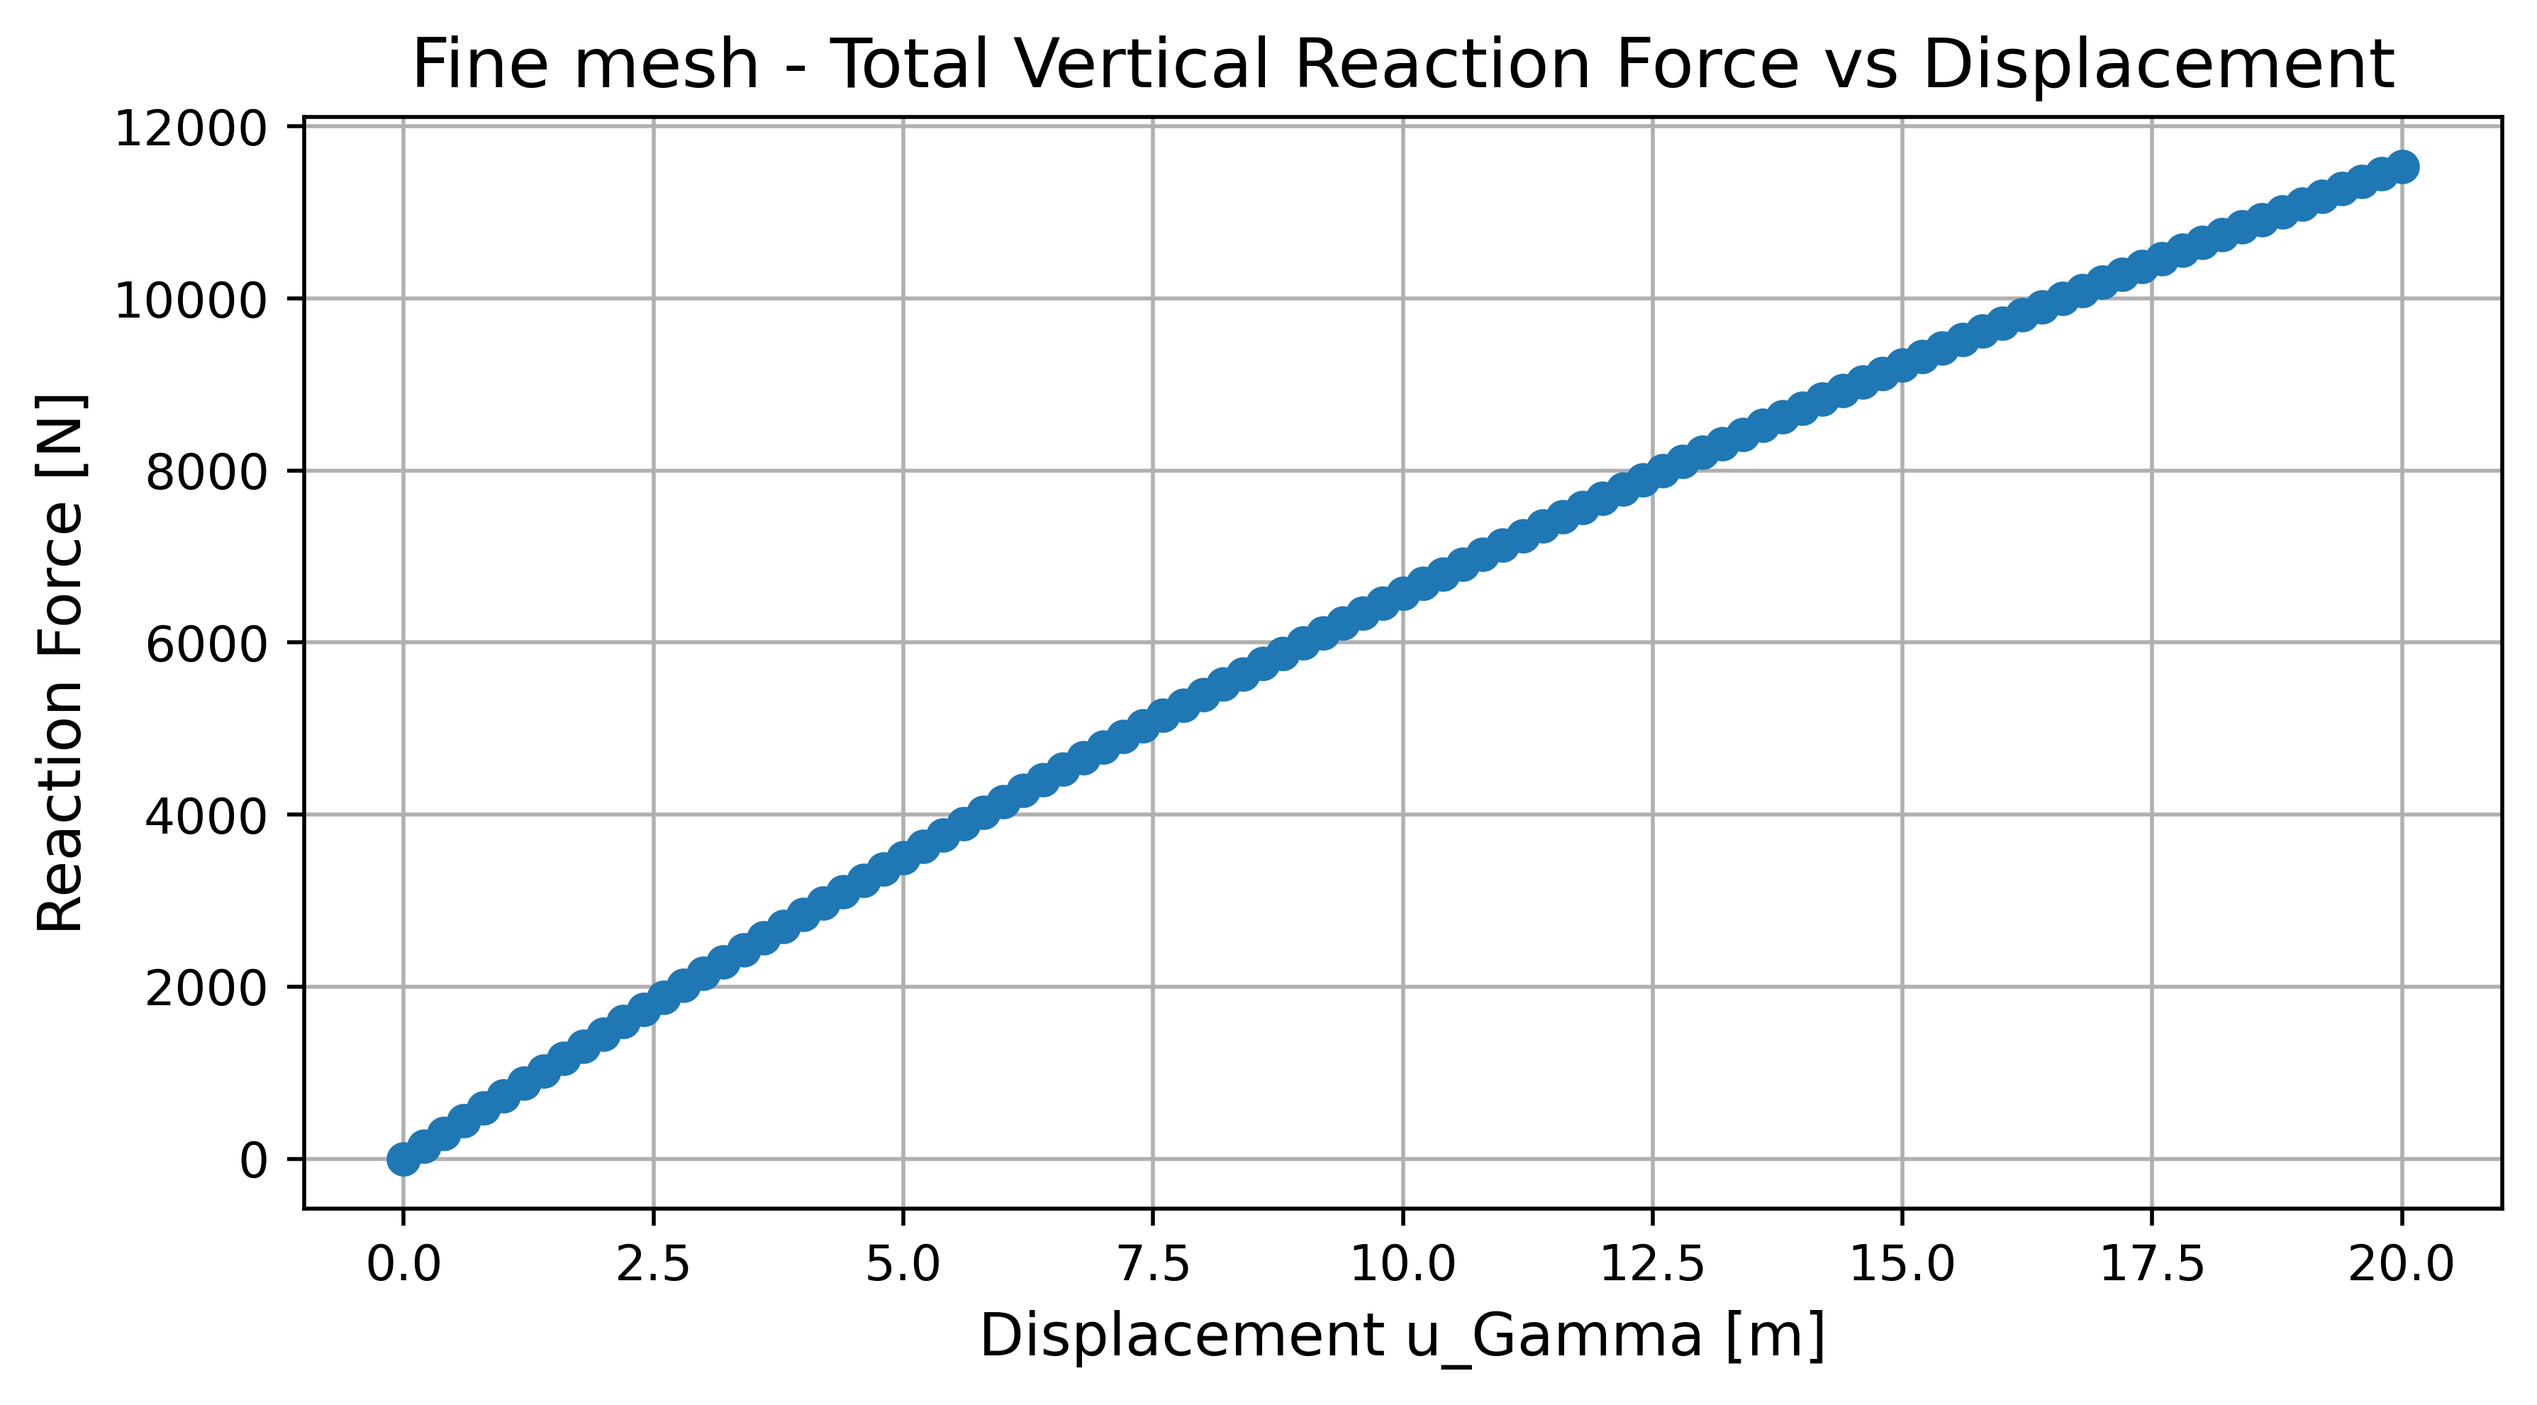
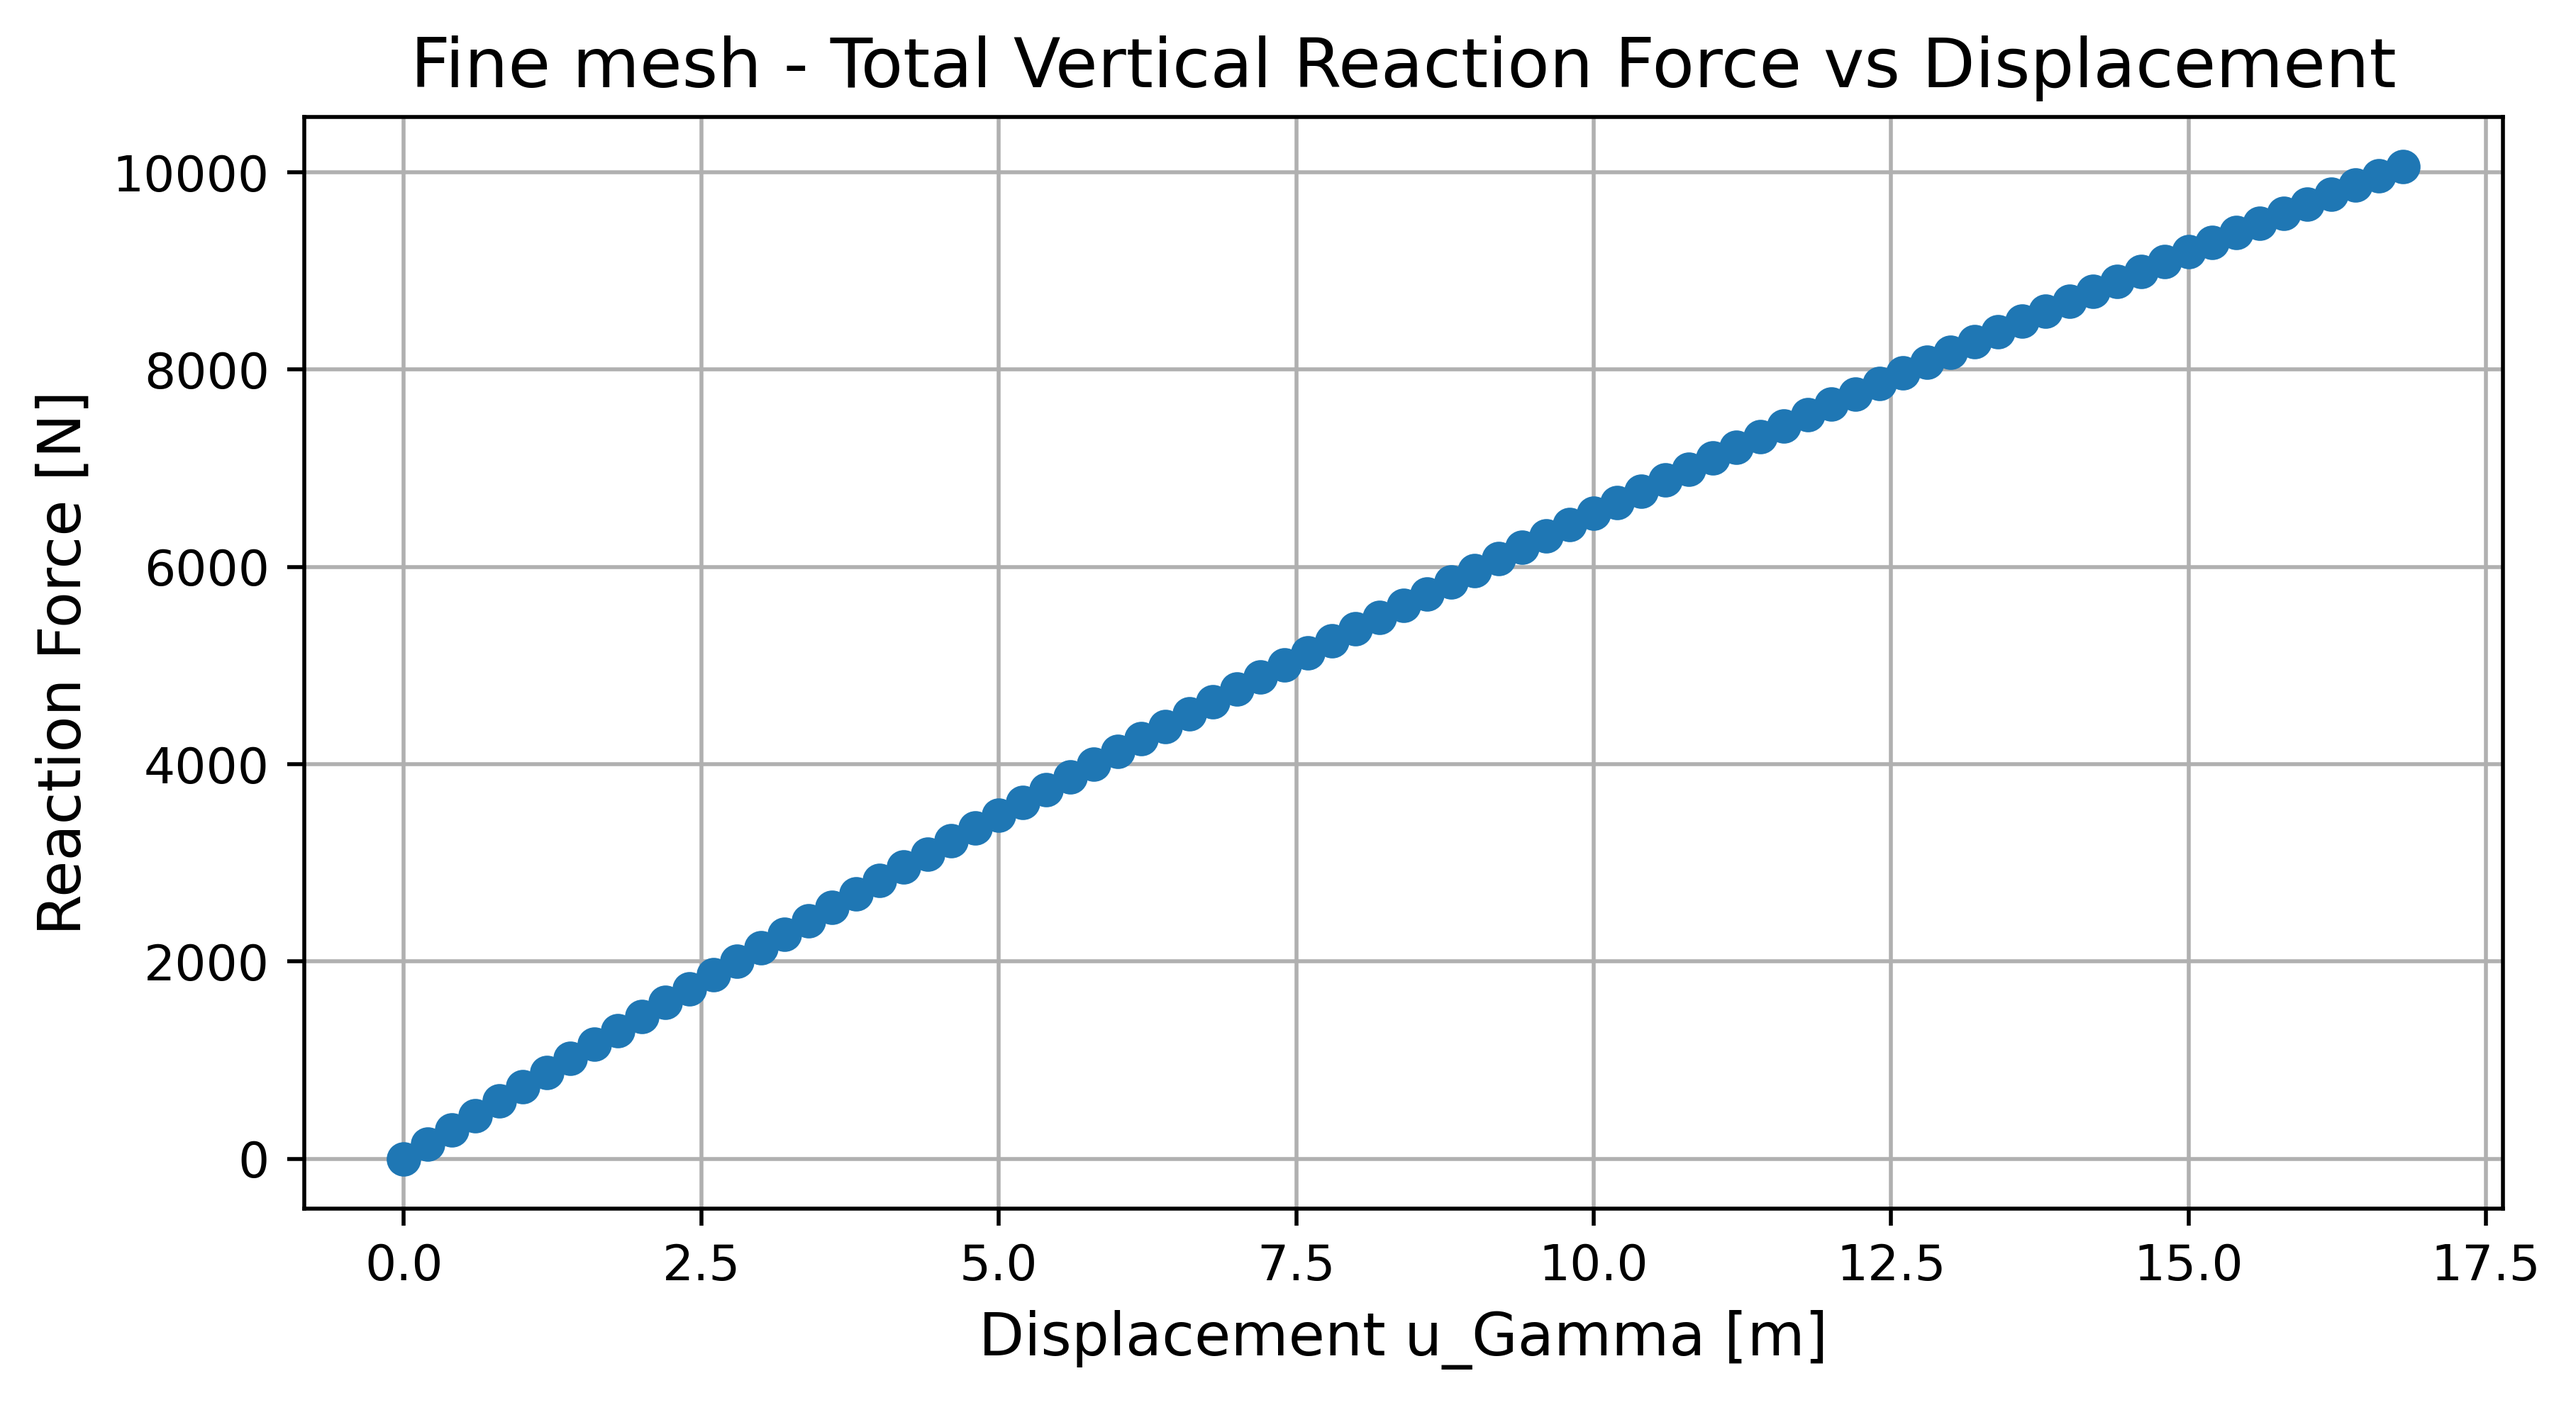
.

diff --git a/TME245/CA1a/testing_CA1a_TME245.py b/TME245/CA1a/testing_CA1a_TME245.py
@@ -1017,26 +1017,19 @@ def solve_task_2d(filename, n_steps=50, tol=1e-6, u_final=20, h=100, max_iter=25
             a[free_dofs] += da_free
             a[bc_dofs] = bc_vals
             
-            if it < 5 or it % 5 == 0:  # Print first 5 iterations and every 5th
-                print(f"\n  Iter {it}: res = {res_norm:.2e}")
+            if it < 10:
+                print(f'\nIter {it}: \nres = {res_norm:.2e}')
                 if it > 0:
-                    print(f"    max|da| = {np.max(np.abs(da_free)):.2e}")
-                    print(f"    max|a_free| = {np.max(np.abs(a[free_dofs])):.2e}")
+                    print(f'    max|da| = {np.max(np.abs(da_free)):.2e}')
+                    print(f'    max|a_free| = {np.max(np.abs(a[free_dofs])):.2e}')
                     # Check if K is singular
                     K_cond = np.linalg.cond(K_free.toarray()) if K_free.shape[0] < 1000 else -1
                     if K_cond > 0:
-                        print(f"    K condition number: {K_cond:.2e}")
-                  
-            if it == 0:
-                print(f"\n  Initial residual: {res_norm:.2e}")
+                        print(f'    K condition number: {K_cond:.2e}')
         
-        # ------------------------------------------------------------------
-        # 5. Post-Processing (Only if converged)
-        # ------------------------------------------------------------------
         if converged:
-            # Reaction force is the sum of internal forces at constrained nodes
             Ry_top = np.sum(f_int[top_y_dofs])
-            print(f'Ry_top: {Ry_top}')
+            print(f'Ry_top: {Ry_top:.2e}')
             
             force_history.append(Ry_top)
             disp_history.append(u_app)
@@ -1153,15 +1146,15 @@ plt.show()
 plot_stress(a, filename, plot_title='coarse')
 #%%
 # ------------------------------------------------------------------
-printt('Run solver - fine mesh')
+printt('Run solver - medium mesh')
 # ------------------------------------------------------------------
-filename = 'topology_fine_6node.mat'
+filename = 'topology_medium_6node.mat'
 
 a, disp_history, force_history = solve_task_2d(filename, n_steps=100, tol=1e-5, u_final=20, h=100)
 
 #%%
 # ------------------------------------------------------------------
-printt('Postprocess - fine mesh')
+printt('Postprocess - medium mesh')
 # ------------------------------------------------------------------
 title = 'Fine mesh - Total Vertical Reaction Force vs Displacement'
 plt.figure()
